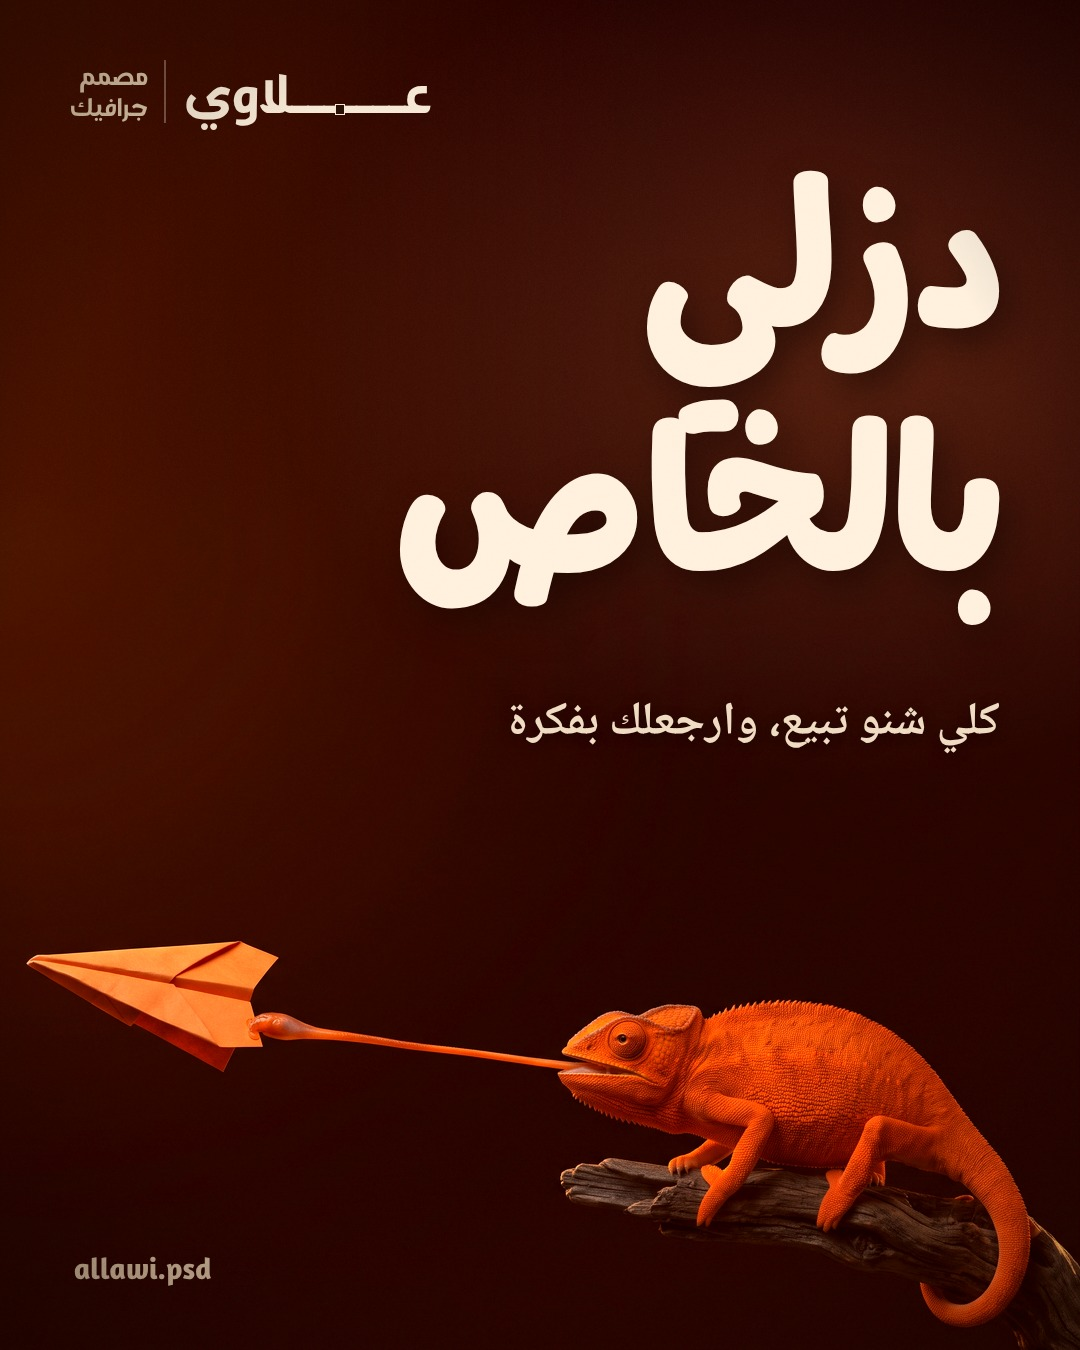
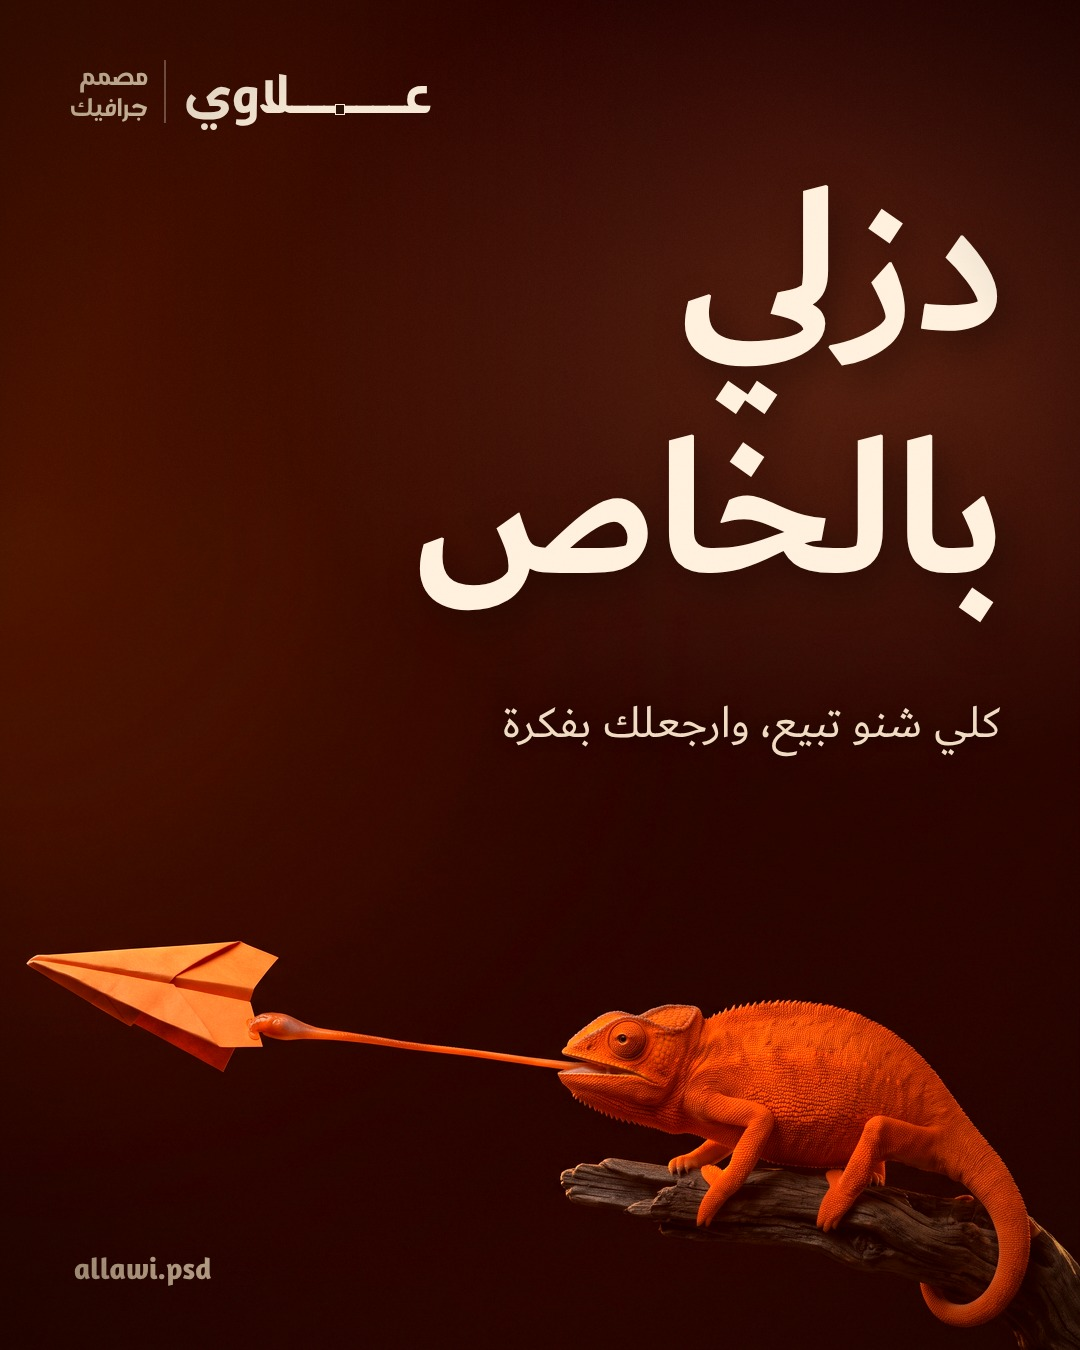
Rebrand carousel: Dubai for headlines and lines

Changed region(s): [[0.3667, 0.1244, 0.9472, 0.4667], [0.4583, 0.5289, 0.9167, 0.56]]

diff --git a/marketing/rebrand/carousel.html b/marketing/rebrand/carousel.html
@@ -4,9 +4,10 @@
 <meta charset="utf-8">
 <style>
   @font-face { font-family: Sahabah; src: url(../brand-fonts/DG-Sahabah-Reg.ttf); font-weight: 400; }
-  /* headlines in a heavy marker hand that stays easy to read, the line under it in a plain Naskh */
-  @font-face { font-family: Ruqaa; src: url(fonts/PlaypenSansArabic.ttf); font-weight: 700; }
-  @font-face { font-family: Naskh; src: url(fonts/NotoNaskhArabic.ttf); font-weight: 700; }
+  /* Dubai: Bold for the headlines, Regular for the line under them (free for commercial use; the files stay out of
+     git under its licence, download them into fonts-local/ from dubaifont.com) */
+  @font-face { font-family: Ruqaa; src: url(fonts-local/Dubai-Bold.ttf); font-weight: 700; }
+  @font-face { font-family: Naskh; src: url(fonts-local/Dubai-Regular.ttf); font-weight: 700; }
   * { margin:0; padding:0; box-sizing:border-box }
   body { background:#111; display:flex; gap:40px; padding:40px; width:3500px; font-family:Sahabah, sans-serif; font-weight:400; font-synthesis:none }
   .art { position:relative; width:1080px; height:1350px; overflow:hidden }

diff --git a/marketing/rebrand/README.md b/marketing/rebrand/README.md
@@ -37,6 +37,7 @@ around the subject, the wordmark small in the top corner.
 The user felt the font was the problem ("the way the text looks") and turned down DG Sahabah, eight Google display
 faces (`fonttest.html`) and six Naskh/Ruqaa faces (`naskhtest.html`), then asked me to choose to match ra.graphicc,
 whose headlines are a bold hand-brushed Naskh. Aref Ruqaa came next and was hard to read; Amiri Bold was readable but "basic". The user then asked me to choose
-again: headlines are Playpen Sans Arabic ExtraBold in cream, a heavy marker hand that stays easy to read, the closest
-free match to the references' marker-written headlines. The line under each headline is Noto Naskh Arabic Bold; the
-logo stays in DG Sahabah. Fonts are in `fonts/` (all SIL Open Font License, from Google Fonts).
+again and turned down Playpen Sans Arabic too, asking for "better fonts". Google Fonts were exhausted; Thmanyah's
+fonts are personal use only. Headlines are now Dubai Bold and the line under each Dubai Regular (Dubai Font is free
+for commercial use but may not be redistributed, so the files are not in git: download Dubai from dubaifont.com into
+`fonts-local/` as `Dubai-Bold.ttf` and `Dubai-Regular.ttf` before rendering). The logo stays in DG Sahabah.
